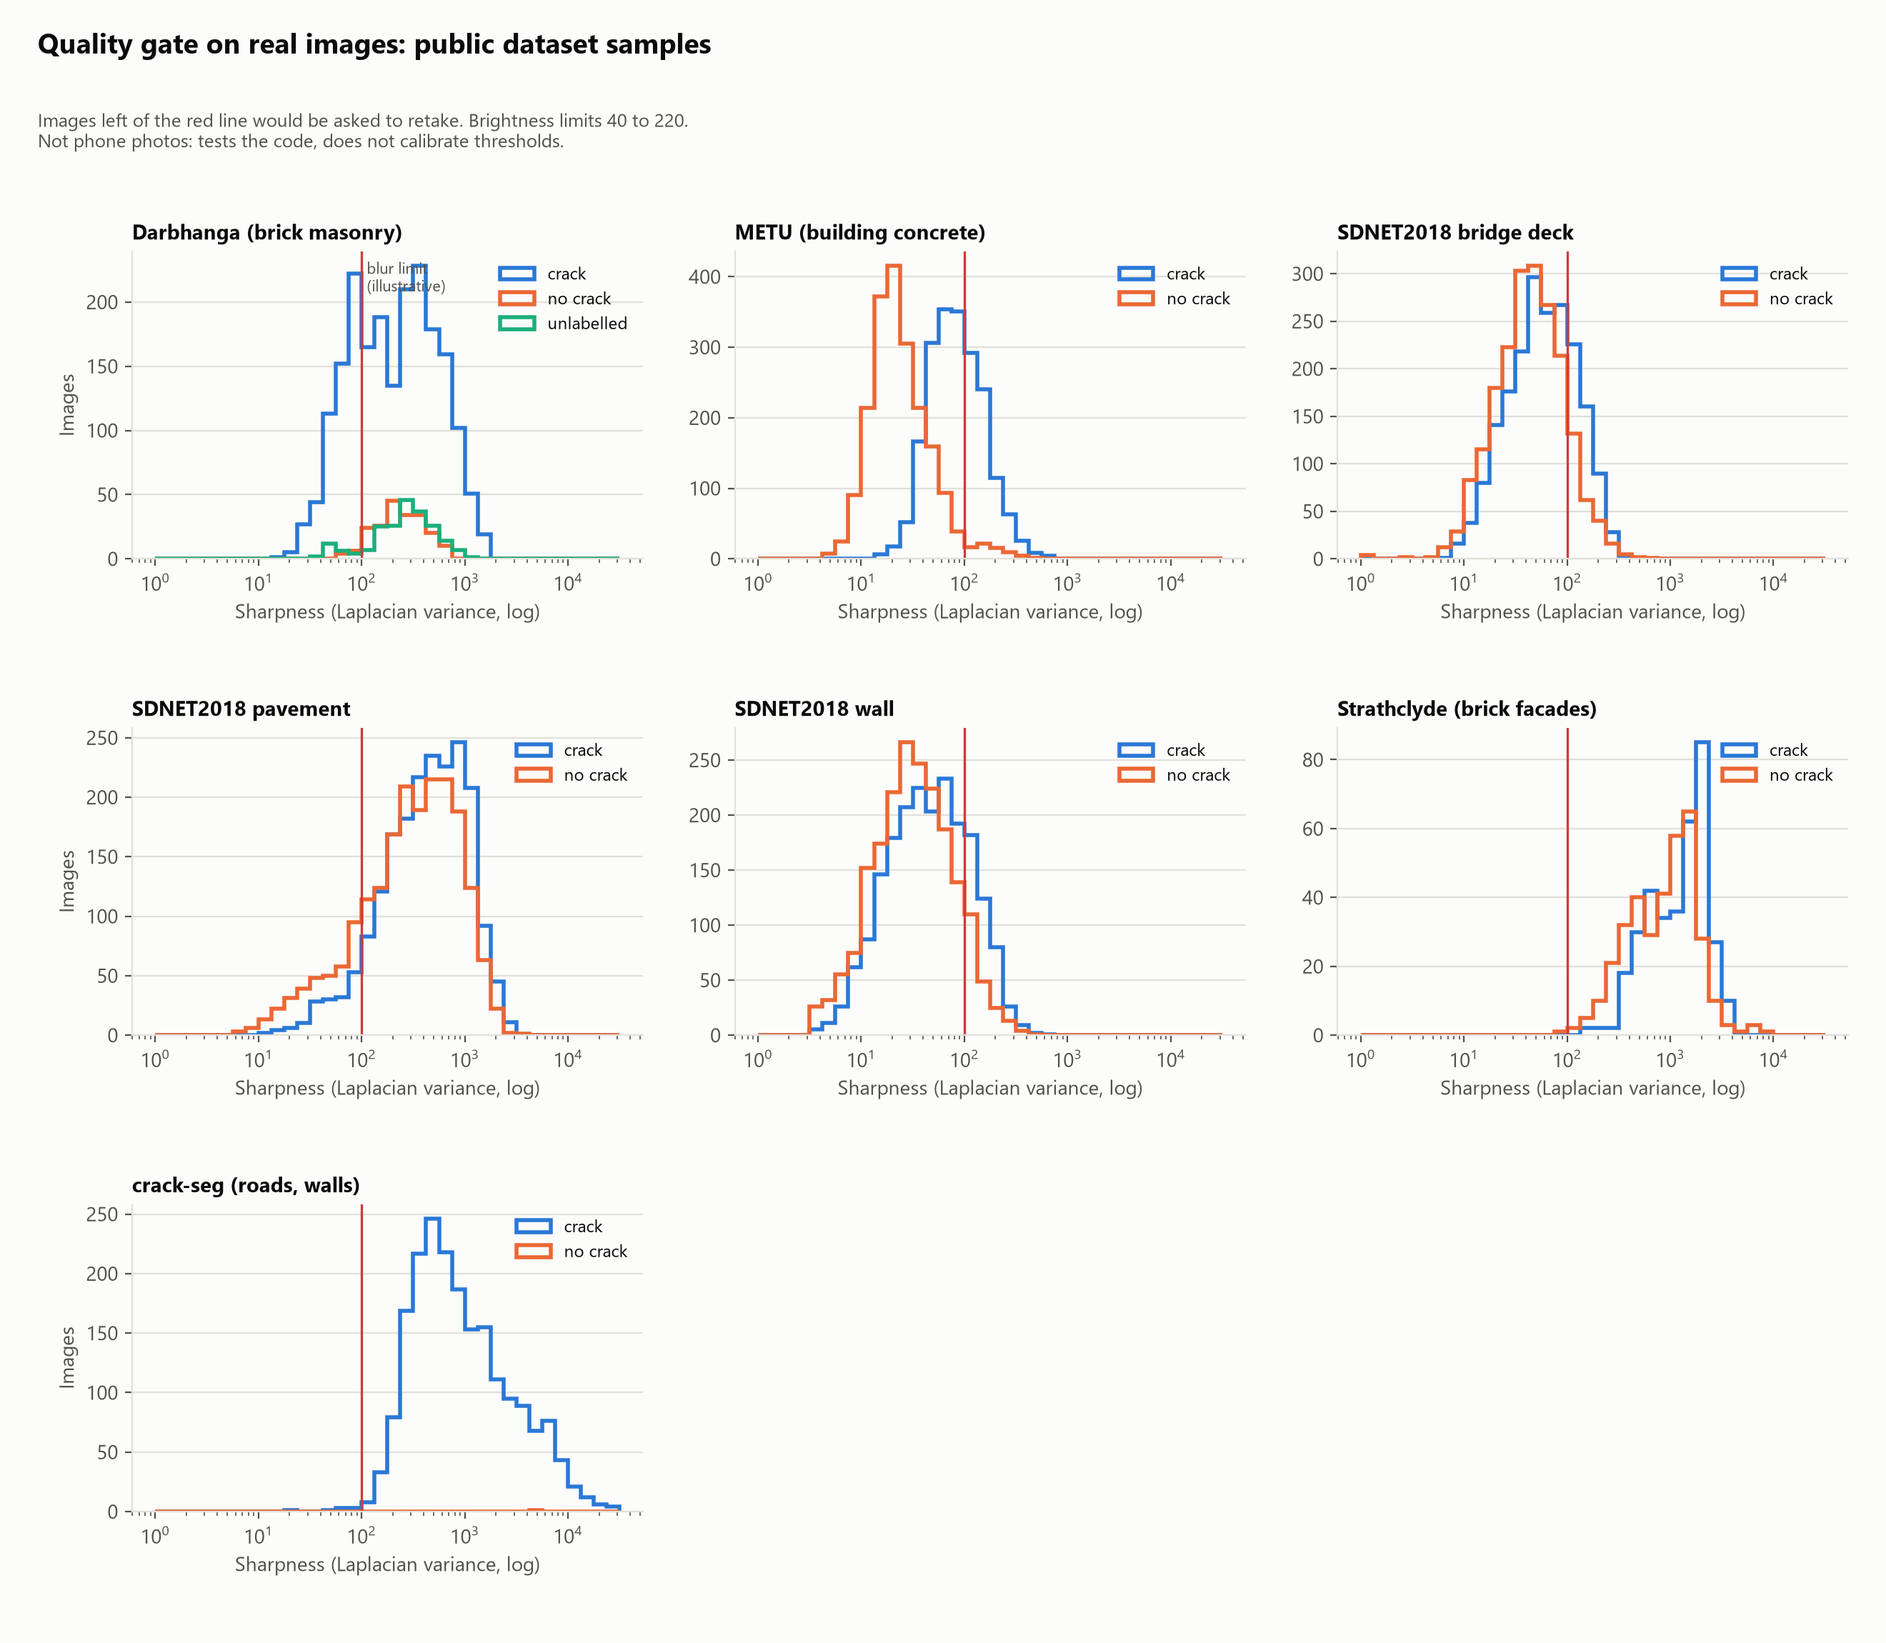
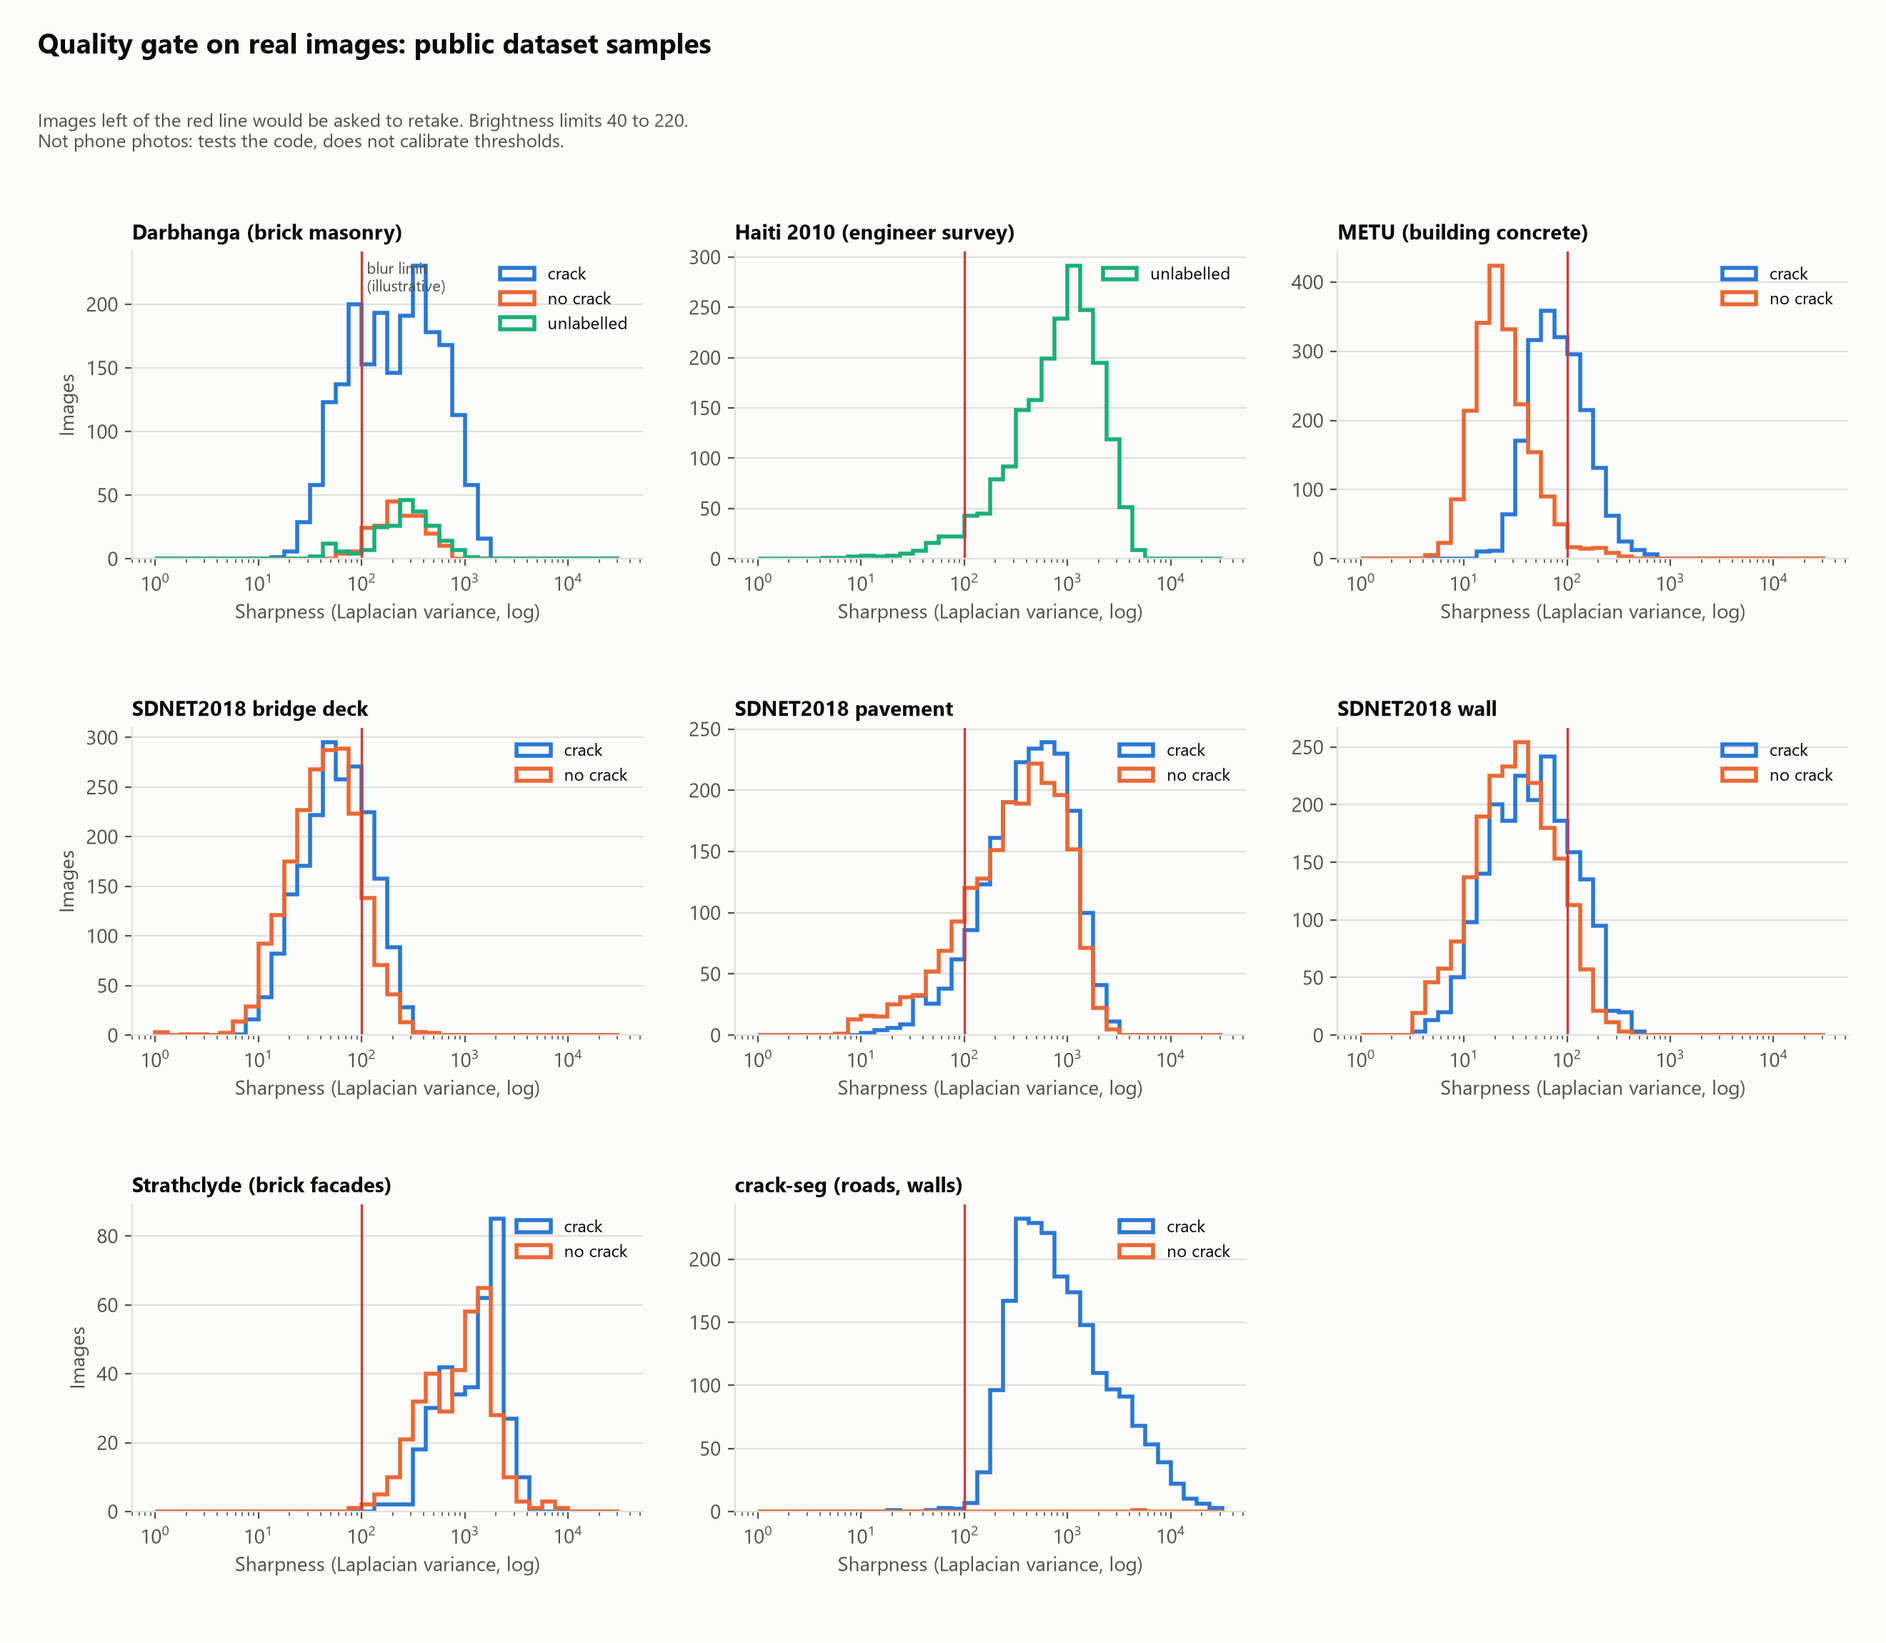
Haiti engineer photos: recovered and run through the quality gate
- Haiti 2010 zip broke at 85% and Dropbox cannot resume; 4,450 photos,
  drawings and the ratings of 183 buildings recovered, each CRC-checked
- Quality gate passes 96% of these full-size field photos: the 512 px
  working size works on real photos
- Experiment write-up: ranking of all datasets, best to worst
- Data map, figure 08 and to-do updated

diff --git a/src/experiments/real_data_quality.py b/src/experiments/real_data_quality.py
@@ -24,7 +24,8 @@ from quality.gate import MAX_BRIGHTNESS, MIN_BRIGHTNESS, MIN_SHARPNESS, check, t
 SDNET_SURFACES = {"D": "bridge deck", "W": "wall", "P": "pavement"}
 DATASET_NAMES = {"crack-seg": "crack-seg (roads, walls)", "darbhanga": "Darbhanga (brick masonry)",
                  "metu": "METU (building concrete)",
-                 "strathclyde-brickwork": "Strathclyde (brick facades)"}
+                 "strathclyde-brickwork": "Strathclyde (brick facades)", "haiti2010": "Haiti 2010 (engineer survey)",
+                 "nepal2015": "Nepal 2015 (engineer survey)"}
 ROOT = Path(__file__).resolve().parents[2]
 
 

diff --git a/docs/data_map.md b/docs/data_map.md
@@ -23,7 +23,7 @@ Raw data is never committed; it lives in `data/` (git-ignored).
 | Low | crack-seg [33], CrackSeg9k [25] | Mostly roads and pavement; generic pre-training for crack pixels only |
 | **Off-concept** | CODEBRIM [28], SDNET2018 decks and pavement [22] | Bridges and roads, not buildings |
 
-**Closest public data:** the post-earthquake building surveys from Haiti and Nepal [41][42]: real buildings in dense, poor neighbourhoods, photographed and rated by engineers. Their damage classes map onto our levels: light (no damage or hairline cracks), moderate (wider cracks or spalling), severe (see-through cracks, failure). Limits: one rating per building, not per crack; damage after an earthquake, not slow deterioration; no scale reference.
+**Closest public data:** the post-earthquake building surveys from Haiti and Nepal [41][42]. Haiti on our disk: 183 buildings rated by engineers (reinforced concrete: 74 light, 27 moderate, 70 severe; masonry walls: 47 light, 25 moderate, 90 severe) and 4,450 photos, 96% of which pass our quality gate. These surveys show real buildings in dense, poor neighbourhoods, photographed and rated by engineers. Their damage classes map onto our levels: light (no damage or hairline cracks), moderate (wider cracks or spalling), severe (see-through cracks, failure). Limits: one rating per building, not per crack; damage after an earthquake, not slow deterioration; no scale reference.
 
 **Still missing:** per-crack photos with a scale from informal or self-built housing before any disaster. Only our own collection with the partners can give that.
 
@@ -71,7 +71,7 @@ Raw data is never committed; it lives in `data/` (git-ignored).
 | CODEBRIM | Zenodo record 2620293 [28], CVPR 2019 paper [29] | Available | Open record, licence file must be accepted | Original images, cropped defects with class labels from bounding boxes, classification sets | 36.4 GB in total (cropped set 7.9 GB); image count not stated on the record | Non-commercial research and education only; no redistribution; trained models may not be used commercially | Five concrete defects on 30 bridges: crack, spalling, exposed bars, efflorescence, corrosion stains | Bridges, not homes; no scale; licence blocks any product use |
 | Brick masonry cracks, Darbhanga Fort | Singh and Maity, Mendeley Data [30] | **Downloaded** (SHA-256 matches) | Public download, scriptable | YOLO bounding boxes (class x y w h), 1 class; all images 768 x 768; test set has no labels | 4,259 images (3,407 train incl. 203 without cracks, 639 val, 213 test); 363 MB zip | CC BY 4.0 | Superficial cracks in red brick masonry | One heritage structure, not homes; no scale; boxes, not masks |
 | METU Concrete Crack Images for Classification | Özgenel, Mendeley Data, doi:10.17632/5y9wdsg2zt.2 [36] | **Downloaded** (SHA-256 matches) | Public download, scriptable; RAR archive | JPEG tiles 227 x 227, Positive / Negative folders | 40,000 (20,000 crack, 20,000 no crack), cut from 458 photos of 4032 x 3024; 241 MB | CC BY 4.0 | Concrete surfaces of buildings on the METU campus, Ankara | Formal campus buildings, not informal homes; no masks, no scale |
-| Haiti Earthquake Database (2010) | Sedra, Eberhard, Pujol et al., DataCenterHub, doi:10.4231/D3P843W0H [41] | **Downloading** (14 GB, started 25 Oct) | Public page, data in a Dropbox folder, no login stated | Spreadsheet (one row per building), photographs, field diagrams | 6,526 photos of 183 structures (170 surveyed in detail: 138 Port-au-Prince, 38 Léogâne); 14.0 GB zip | Not stated on the page: ask the authors before reuse | RC and concrete-block masonry buildings, 1 to 12 floors; damage light / moderate / severe for RC and for masonry walls, defined by crack width | One rating per building; post-earthquake; no scale |
+| Haiti Earthquake Database (2010) | Sedra, Eberhard, Pujol et al., DataCenterHub, doi:10.4231/D3P843W0H [41] | **Partly downloaded**: the Dropbox zip broke at 85% and cannot resume; 4,450 photos, the drawings and the ratings spreadsheet recovered, each file CRC-checked | Public page, data in a Dropbox folder, no login stated | Spreadsheet (one row per building), photographs, field diagrams | 6,526 photos of 183 structures (170 surveyed in detail: 138 Port-au-Prince, 38 Léogâne); 14.0 GB zip | Not stated on the page: ask the authors before reuse | RC and concrete-block masonry buildings, 1 to 12 floors; damage light / moderate / severe for RC and for masonry walls, defined by crack width | One rating per building; post-earthquake; no scale |
 | 2015 Nepal Earthquake Building Performance Database | Shah, Pujol, Puranam, Laughery, DataCenterHub, doi:10.7277/Z82F-0728 [42] | Not downloaded: the archive now only offers Nepal inside a 228 GB zip with Ecuador, Taiwan and Korea (more than our free disk) | DataCenterHub is now a static archive run by the University of Canterbury [45]; download only the Nepal folder from the Dropbox page in a browser | Spreadsheet per building with photos, drawings, KML map | 146 low-rise RC buildings, Kathmandu; photo count not stated | CC BY-SA 3.0 | RC with masonry infill; structural damage light / moderate / severe / collapse, infill damage light / moderate / severe | Per building; post-earthquake; no scale |
 | Building Surveys after Earthquakes | Monical, ACI Committee 133, DataCenterHub, doi:10.7277/368Q-T523 [43] | Not downloaded (one 228 GB zip) | Public page | Per-building dimensions, ground motion, photos, figures | Counts not stated | CC BY-NC-SA 4.0 (non-commercial) | 2015 Nepal, 2016 Ecuador, 2016 Taiwan, 2017 South Korea; RC buildings | Damage scheme not stated on the page; non-commercial |
 | Brickwork Cracks Dataset | Seyedzadeh, Katsigiannis et al., Zenodo, doi:10.5281/zenodo.8014150 [44] | **Downloaded** (MD5 matches) | Open, Zenodo | 227 x 227 images, Positive / Negative folders | 700 (350 crack, 350 no crack); 9 MB | CC BY 4.0 | Brick facades | Small; no masks, no scale |
@@ -129,7 +129,7 @@ What is downloaded on Jerome's PC as of 25 Oct 2026. Anyone else downloads from 
 | `sdnet2018/` | SDNET2018 [22] | 629 MB | 56,092 | Downloaded in a browser; file sizes checked |
 | `strathclyde-brickwork/` | Brickwork cracks [44] | 19 MB | 700 | MD5 matches Zenodo |
 | `crackseg9k/` | CrackSeg9k Vol1 [25] | 1.5 GB | not extracted | MD5 matches Dataverse |
-| `haiti2010/` | Haiti Earthquake Database [41] | 14 GB | in progress | Download started 25 Oct |
+| `haiti2010/` | Haiti Earthquake Database [41] | 12 GB extracted (+ 11.9 GB partial zip) | 4,450 photos; spreadsheet of 183 buildings | Partial zip, every recovered file CRC-checked |
 | `nepal2015/` | Nepal 2015 surveys [42] | - | not downloaded | Nepal folder to download in a browser |
 
 Run the real-data test on all of them: `py src/experiments/real_data_quality.py data/raw/crack-seg data/raw/darbhanga data/raw/metu data/raw/sdnet2018 data/raw/strathclyde-brickwork --per-group 2000`.

diff --git a/docs/experiments/2026-10-25_quality_gate_first_test.md b/docs/experiments/2026-10-25_quality_gate_first_test.md
@@ -4,18 +4,34 @@ Deliverable for 29 Oct: "agent working on real data as a first test".
 Spec: `spec/features/quality_gate.md`. Code: `src/experiments/real_data_quality.py`. Figure: `figures/08_real_data_quality_gate.png`.
 
 ## What was run
-The quality gate's image checks (sharpness, brightness) on five public datasets, downloaded into `data/raw/` (git-ignored). First run: every image of crack-seg and Darbhanga (8,288). Later runs added SDNET2018, METU and Strathclyde: up to 2,000 random images per group.
+The quality gate's image checks (sharpness, brightness) on six public datasets, downloaded into `data/raw/` (git-ignored). First run: every image of crack-seg and Darbhanga (8,288). Later runs added SDNET2018, METU, Strathclyde and the Haiti 2010 engineer photos: up to 2,000 random images per group (about 23,000 in the last run).
 
 | Dataset | Images | Size | Labels | Check of the download |
 |---|---|---|---|---|
 | Ultralytics crack-seg [33][34] | 4,029 (3,717 train, 200 val, 112 test) | all 416 x 416 | YOLO polygons, 1 class; 1 empty label file | Counted in the zip |
 | Darbhanga brick masonry [30] | 4,259 (3,407 train, 639 val, 213 test) | all 768 x 768 | YOLO bounding boxes, 1 class; test has no labels; 203 train images without labels (no crack) | SHA-256 matches the Mendeley record |
 | METU concrete cracks [36] | 40,000 (20,000 crack, 20,000 no crack) | 227 x 227 tiles | crack / no crack by folder | SHA-256 matches the Mendeley record |
+| Haiti 2010 Earthquake Database [41] | 4,450 photos recovered of 6,526 | full-size field photos | per building: light / moderate / severe | Partial: the 14 GB Dropbox zip broke at 85% and cannot resume; every recovered file passed its CRC-32 check |
 | SDNET2018 [22] | 56,092 (deck 2,025 cracked / 11,595 uncracked; wall 3,851 / 14,287; pavement 2,608 / 21,726) | 256 x 256 tiles | crack / no crack by folder | Downloaded in a browser (scripted download blocked); every file size checked against the download |
 
 The coin check is not implemented, so every image was treated as if the coin were confirmed; these sets have no coin.
 
-## Results (last run, four datasets)
+## Ranking: share of images the gate accepts, best to worst (last run)
+
+| # | Dataset | Accepted (cracked / uncracked) | Main rejection |
+|---|---|---|---|
+| 1 | Strathclyde brick facades | 100% / 100% | none |
+| 2 | crack-seg (roads, walls) | 97% / - | too bright |
+| 3 | **Haiti 2010 engineer photos** (full-size field photos) | 96% (not split by crack) | blurred |
+| 4 | SDNET2018 pavement | 91% / 82% | blurred |
+| 5 | Darbhanga brick masonry | 72% / 95% | blurred |
+| 6 | METU building concrete | 37% / 3% | blurred |
+| 7 | SDNET2018 bridge decks | 25% / 13% | blurred |
+| 8 | SDNET2018 walls | 22% / 10% | blurred |
+
+A low score means the gate struggles with that surface, not that the data is bad: textured brick and field photos pass, smooth plaster and concrete tiles are wrongly called blurred (D12).
+
+## Results (last run, six datasets)
 
 ![Quality gate on real images](../../figures/08_real_data_quality_gate.png)
 
@@ -25,6 +41,7 @@ The coin check is not implemented, so every image was treated as if the coin wer
 | Darbhanga | crack | 2,000 | 73% | 219.6 | 123.9 | blurred |
 | Darbhanga | no crack | 203 | 95% | 233.9 | 149.9 | blurred |
 | Darbhanga | unlabelled (test) | 213 | 89% | 286.6 | 121.7 | blurred |
+| Haiti 2010 engineer photos | unlabelled | 2,000 | 96% | 896.0 | 121.4 | blurred |
 | Strathclyde brick facades | crack | 350 | 100% | 1,418.7 | 135.6 | - |
 | Strathclyde brick facades | no crack | 350 | 100% | 964.6 | 151.4 | - |
 | METU building concrete | crack | 2,000 | 39% | 82.0 | 165.0 | blurred |
@@ -39,11 +56,12 @@ The coin check is not implemented, so every image was treated as if the coin wer
 First run on every crack-seg image (4,029): 97% pass, 118 too bright, 14 blurred. Every Darbhanga image (4,259): same pass rates as above within 1 point.
 
 ## What we learned
-1. **The code runs on real images end to end**: five datasets, about 21,000 images in the last run, measured and logged, with a figure.
+1. **The code runs on real images end to end**: six datasets, about 23,000 images in the last run, measured and logged, with a figure.
 2. **Bug found and fixed: sharpness depended on resolution.** Before the fix the gate rejected 63% of all Darbhanga images as blurred. Scaling the same images to 416 px dropped the blurred share from 67% to 11% (sample of 107 images). A phone photo at about 4000 px would almost always have failed. The gate now measures on a copy scaled to 512 px (`spec/decisions.md` D8). This is why a test on real data was worth doing before the pilot.
 3. **Cracked brick images score lower on sharpness than uncracked ones** (73% vs 95% pass). Possible reasons: close-ups of cracks, smoother surfaces, or real blur. Not tested; we need to look at the rejected images before changing anything.
 4. **Second problem found: the blur measure confuses smooth surfaces with blur.** The gate rejects 75 to 89% of SDNET2018 wall and deck tiles, but only 9 to 16% of pavement. These are 256 px tiles, so it is not the resolution bug. A visual check of 8 rejected cracked-wall tiles: most are in focus, smooth low-contrast concrete with hairline cracks; a few look slightly soft. Laplacian variance measures texture as much as focus. On real walls this means **hairline cracks on smooth plaster or concrete would be sent back for retake again and again**. That is safe (a retake is never a Low) but makes the tool unusable for exactly the walls we care about. **Confirmed on building walls:** on METU (concrete surfaces of campus buildings, the closest of these sets to our concept, D14) the gate rejects 61% of cracked and 97% of uncracked tiles. Textured brick passes (Strathclyde brick facades: 100%), so the problem is specific to smooth surfaces: plaster and concrete. Not fixed yet: we need photos with known blur to choose a better measure (`spec/decisions.md` D12).
-5. **"Too bright" is the main failure on crack-seg** (118 of 4,029). Many images are pale concrete or pavement; the 220 limit may be too strict for light walls. To check on the pilot phone photos.
+5. **Real field photos pass.** The Haiti photos are full-size camera photos of damaged buildings taken by engineers; 96% pass. This is the first test on photos like the ones the tool will receive, and it shows the 512 px working size (D8) works on them. They are not phone photos and have no coin, so the thresholds are still not calibrated.
+6. **"Too bright" is the main failure on crack-seg** (118 of 4,029). Many images are pale concrete or pavement; the 220 limit may be too strict for light walls. To check on the pilot phone photos.
 
 ## Limits
 - None of these are phone photos with a coin, so the thresholds are not calibrated by this test (`spec/decisions.md` D7).

diff --git a/docs/weekly_todo.md b/docs/weekly_todo.md
@@ -25,7 +25,7 @@ Owner: J = Jerome, L = Luis, C = coding agent (Claude). Fill in the blanks.
 - [ ] Same request to the third-party structural engineer; confirm the agreement (__)
 
 ### Data
-- [ ] Haiti 2010 Earthquake Database downloaded (14 GB) and checked (C, started 25 Oct)
+- [x] Haiti 2010 Earthquake Database: 4,450 photos and the ratings of 183 buildings recovered from a broken download, run through the quality gate (C, 25 Oct)
 - [ ] Email santiago.pujol@canterbury.ac.nz (subject "datacenterhub inquiry") to confirm the Haiti licence before using any photo in slides or training; ask about the Türkiye 2023 survey too (draft in the chat of 25 Oct) (__)
 - [ ] Nepal 2015: download only the Nepal folder in a browser from https://datacenterhub.org/post-nees.html into `data/raw/nepal2015/` (__)
 - [ ] Decide how many images to label by hand with the five crack patterns, and who labels (J + L)
